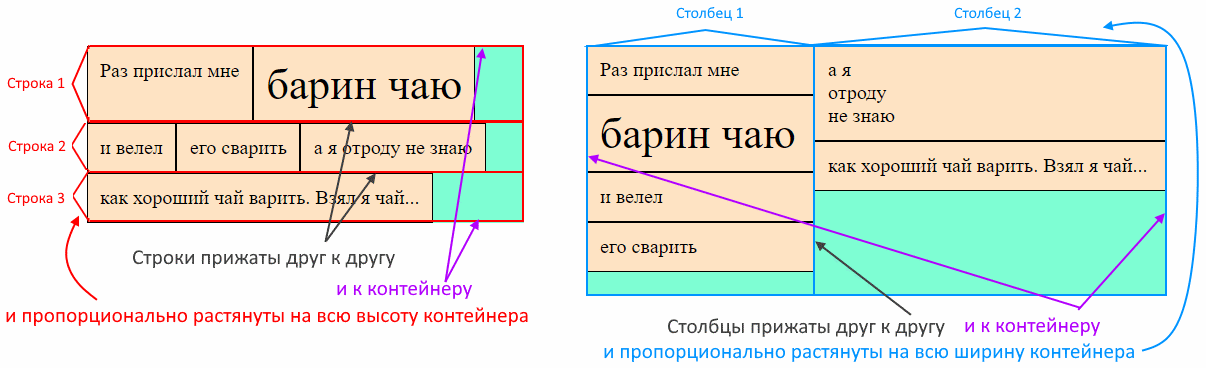
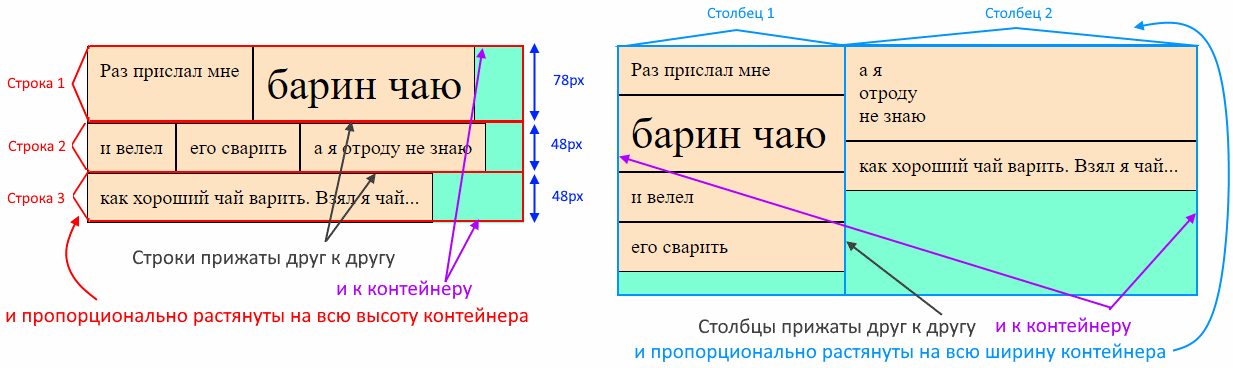
flush

diff --git a/frontend/html, css/css/06 - Flexbox и Grid/01 - Flexbox/01 - Flexbox.md b/frontend/html, css/css/06 - Flexbox и Grid/01 - Flexbox/01 - Flexbox.md
@@ -243,25 +243,23 @@ Baseline означает воображаемую линию, на которо
 
 ## align-content, Выравнивание строк \ столбцов внутри контейнера
 
-Если в контейнере остается свободное место, то строки и столбцы по умолчанию ведут себя так:
-
-* Строки растягиваются и занимают всю *высоту* контейнера, какой бы она ни была.
-  * Вообще, высота контейнера определяется суммой высот строк. Но если задать высоту контейнера явно, тогда строки пропорционально растянутся по вертикали.
-* Столбцы растягиваются и занимают всю *ширину* контейнера, какой бы она ни была.
+Как было сказано в разделе про перенос, строки по умолчанию занимают всю высоту контейнера, а столбцы - всю ширину. И те, и другие делят пространство не поровну, а *растягиваются* пропорционально:
 
 ![rows-columns-sticks](img/rows-columns-sticks.png)
 
-Однако мы можем задать выравнивание для самих строк и столбцов. Тогда они не будут растягиваться на всю высоту \ ширину контейнера:
+Мы можем выравнивать не только элементы внутри строк \ столбцов, но и сами строки и столбцы. Тогда они не будут растягиваться на всю высоту \ ширину контейнера, а выстроятся соответственно указанному выравниванию (высоту контейнера надо задать вручную, чтобы увидеть эффект, т.к. из-за того что она рассчитывается как сумма высот строк, в контейнере не будет лишнего места по вертикали).
+
+После выравнивания строк \ столбцов, контейнер можно визуализировать вот так:
 
 <img src="img/row-column-space.png" alt="row-column-space" style="zoom:80%;" />
 
-Это позволит нам выравнивать уже непосредственно сами строки и столбцы.
+Здесь одновременно задано выравнивание и самих строк \ столбцов, и элементов внутри них.
 
-► Горизонтальный контейнер:
+► Горизонтальный контейнер (заштрихованным показано свободное пространство контейнера):
 
 <img src="img/align-content-flex-hor.png" alt="align-content-flex-hor" style="zoom:80%;" />
 
-► Вертикальный контейнер:
+► Вертикальный контейнер (заштрихованным показано свободное пространство контейнера):
 
 <img src="img/align-content-flex-ver.png" alt="align-content-flex-ver" style="zoom:80%;" />
 
